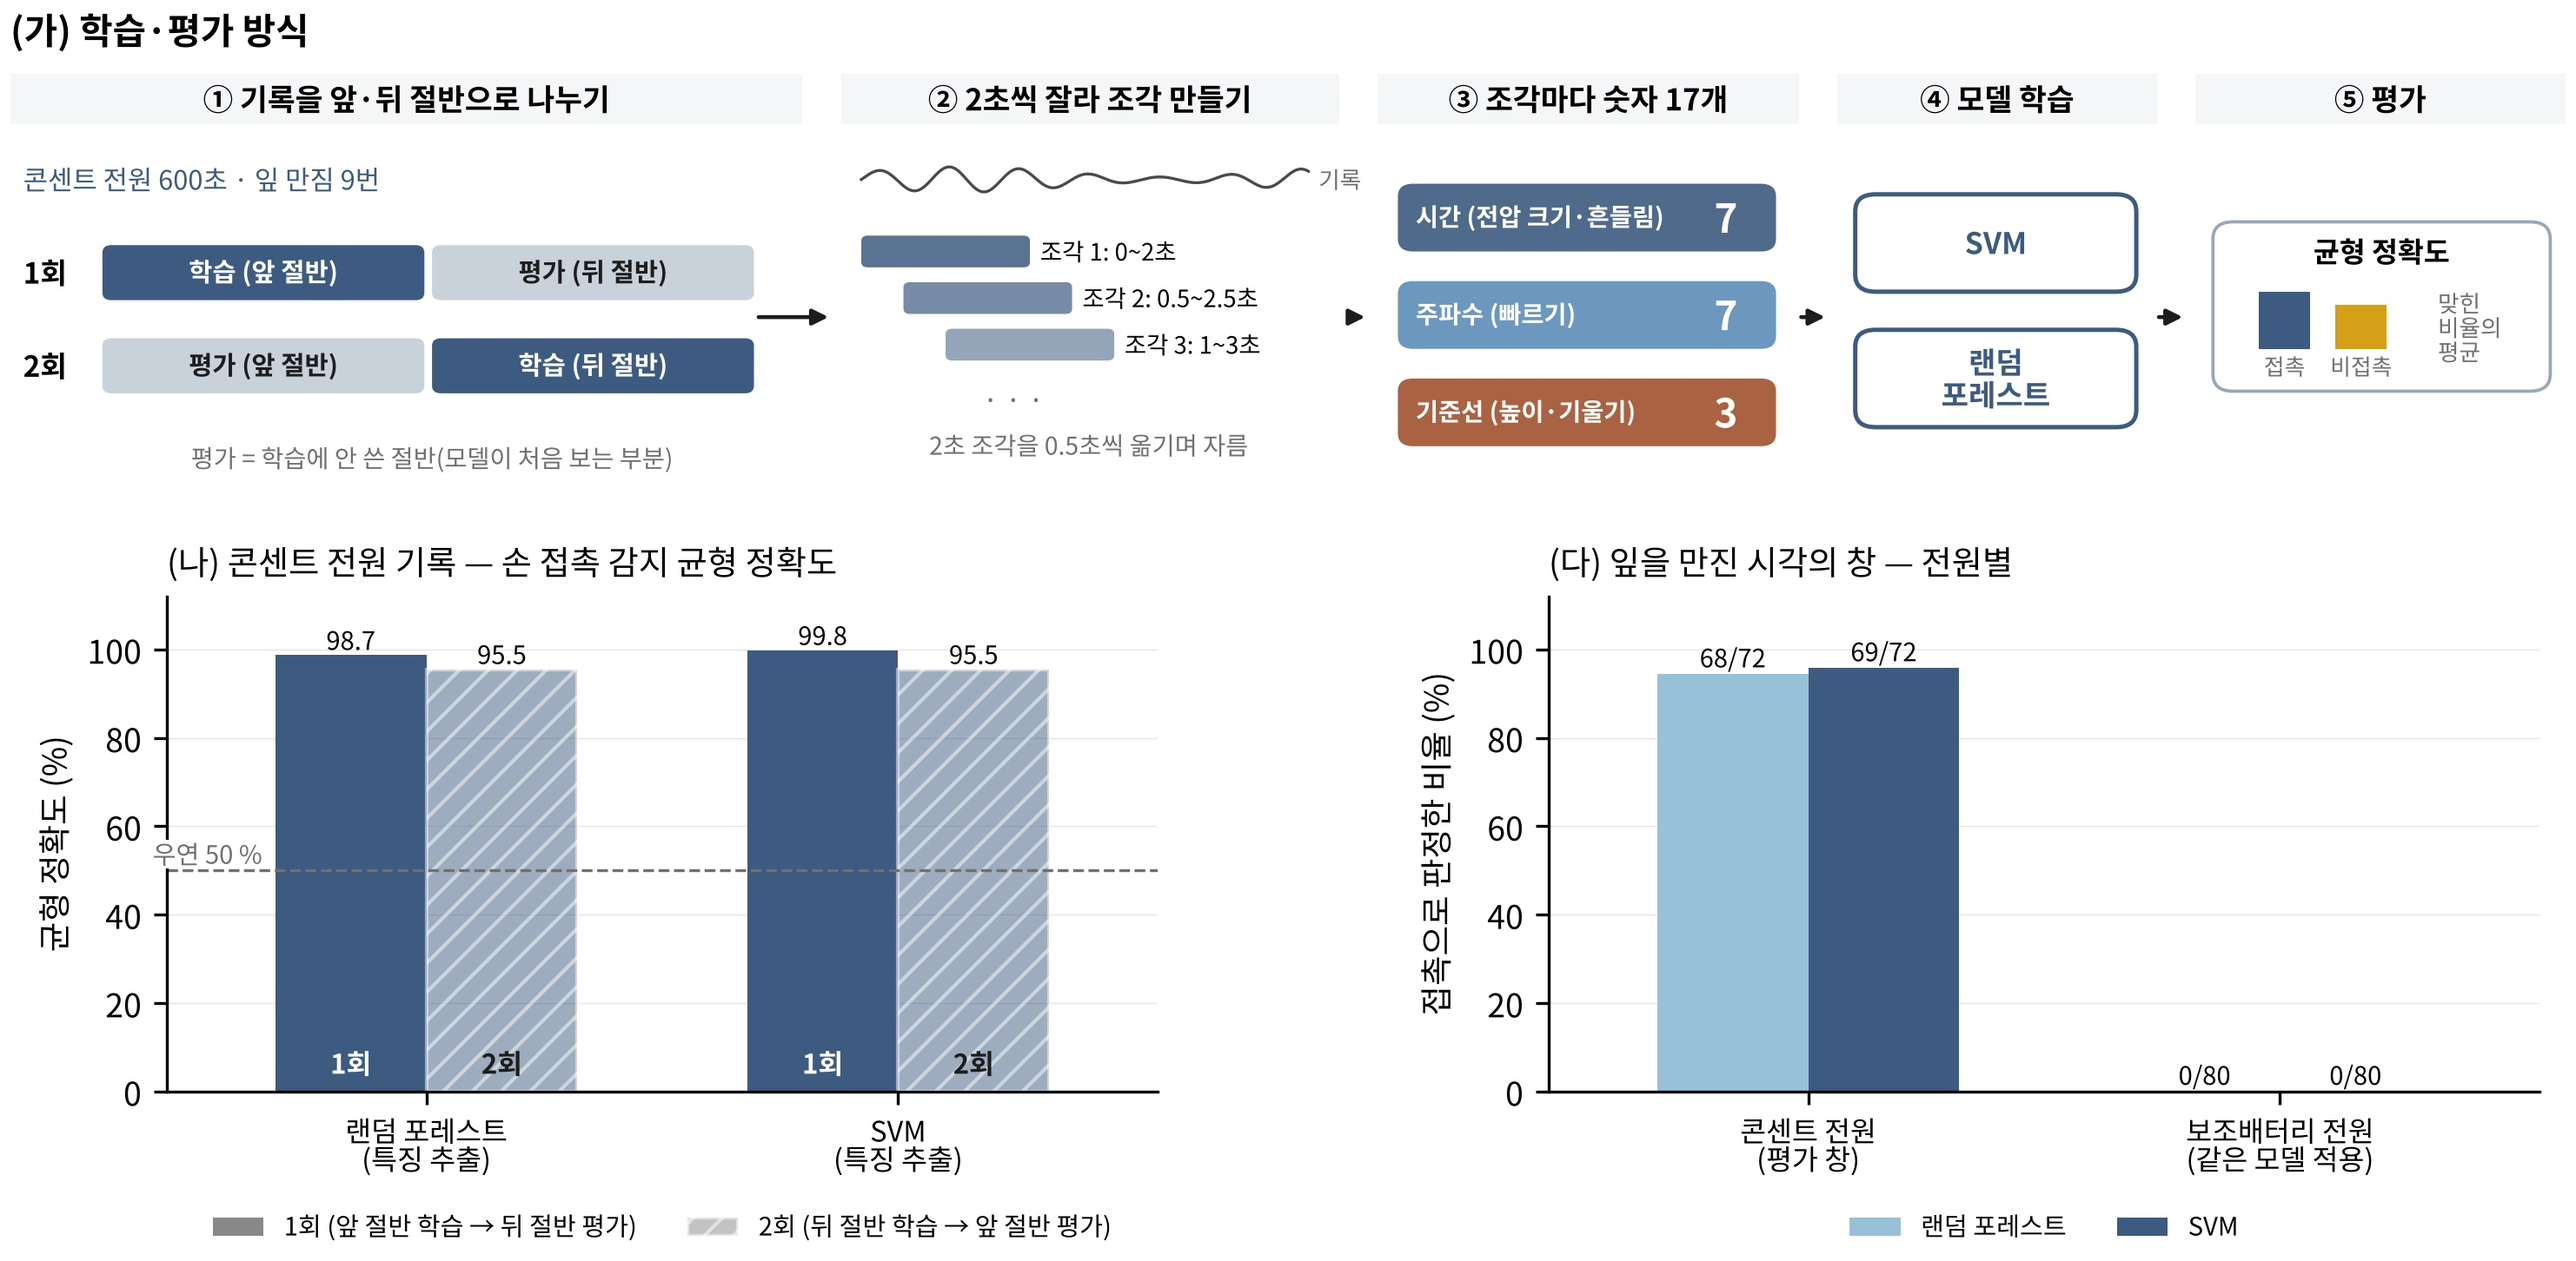
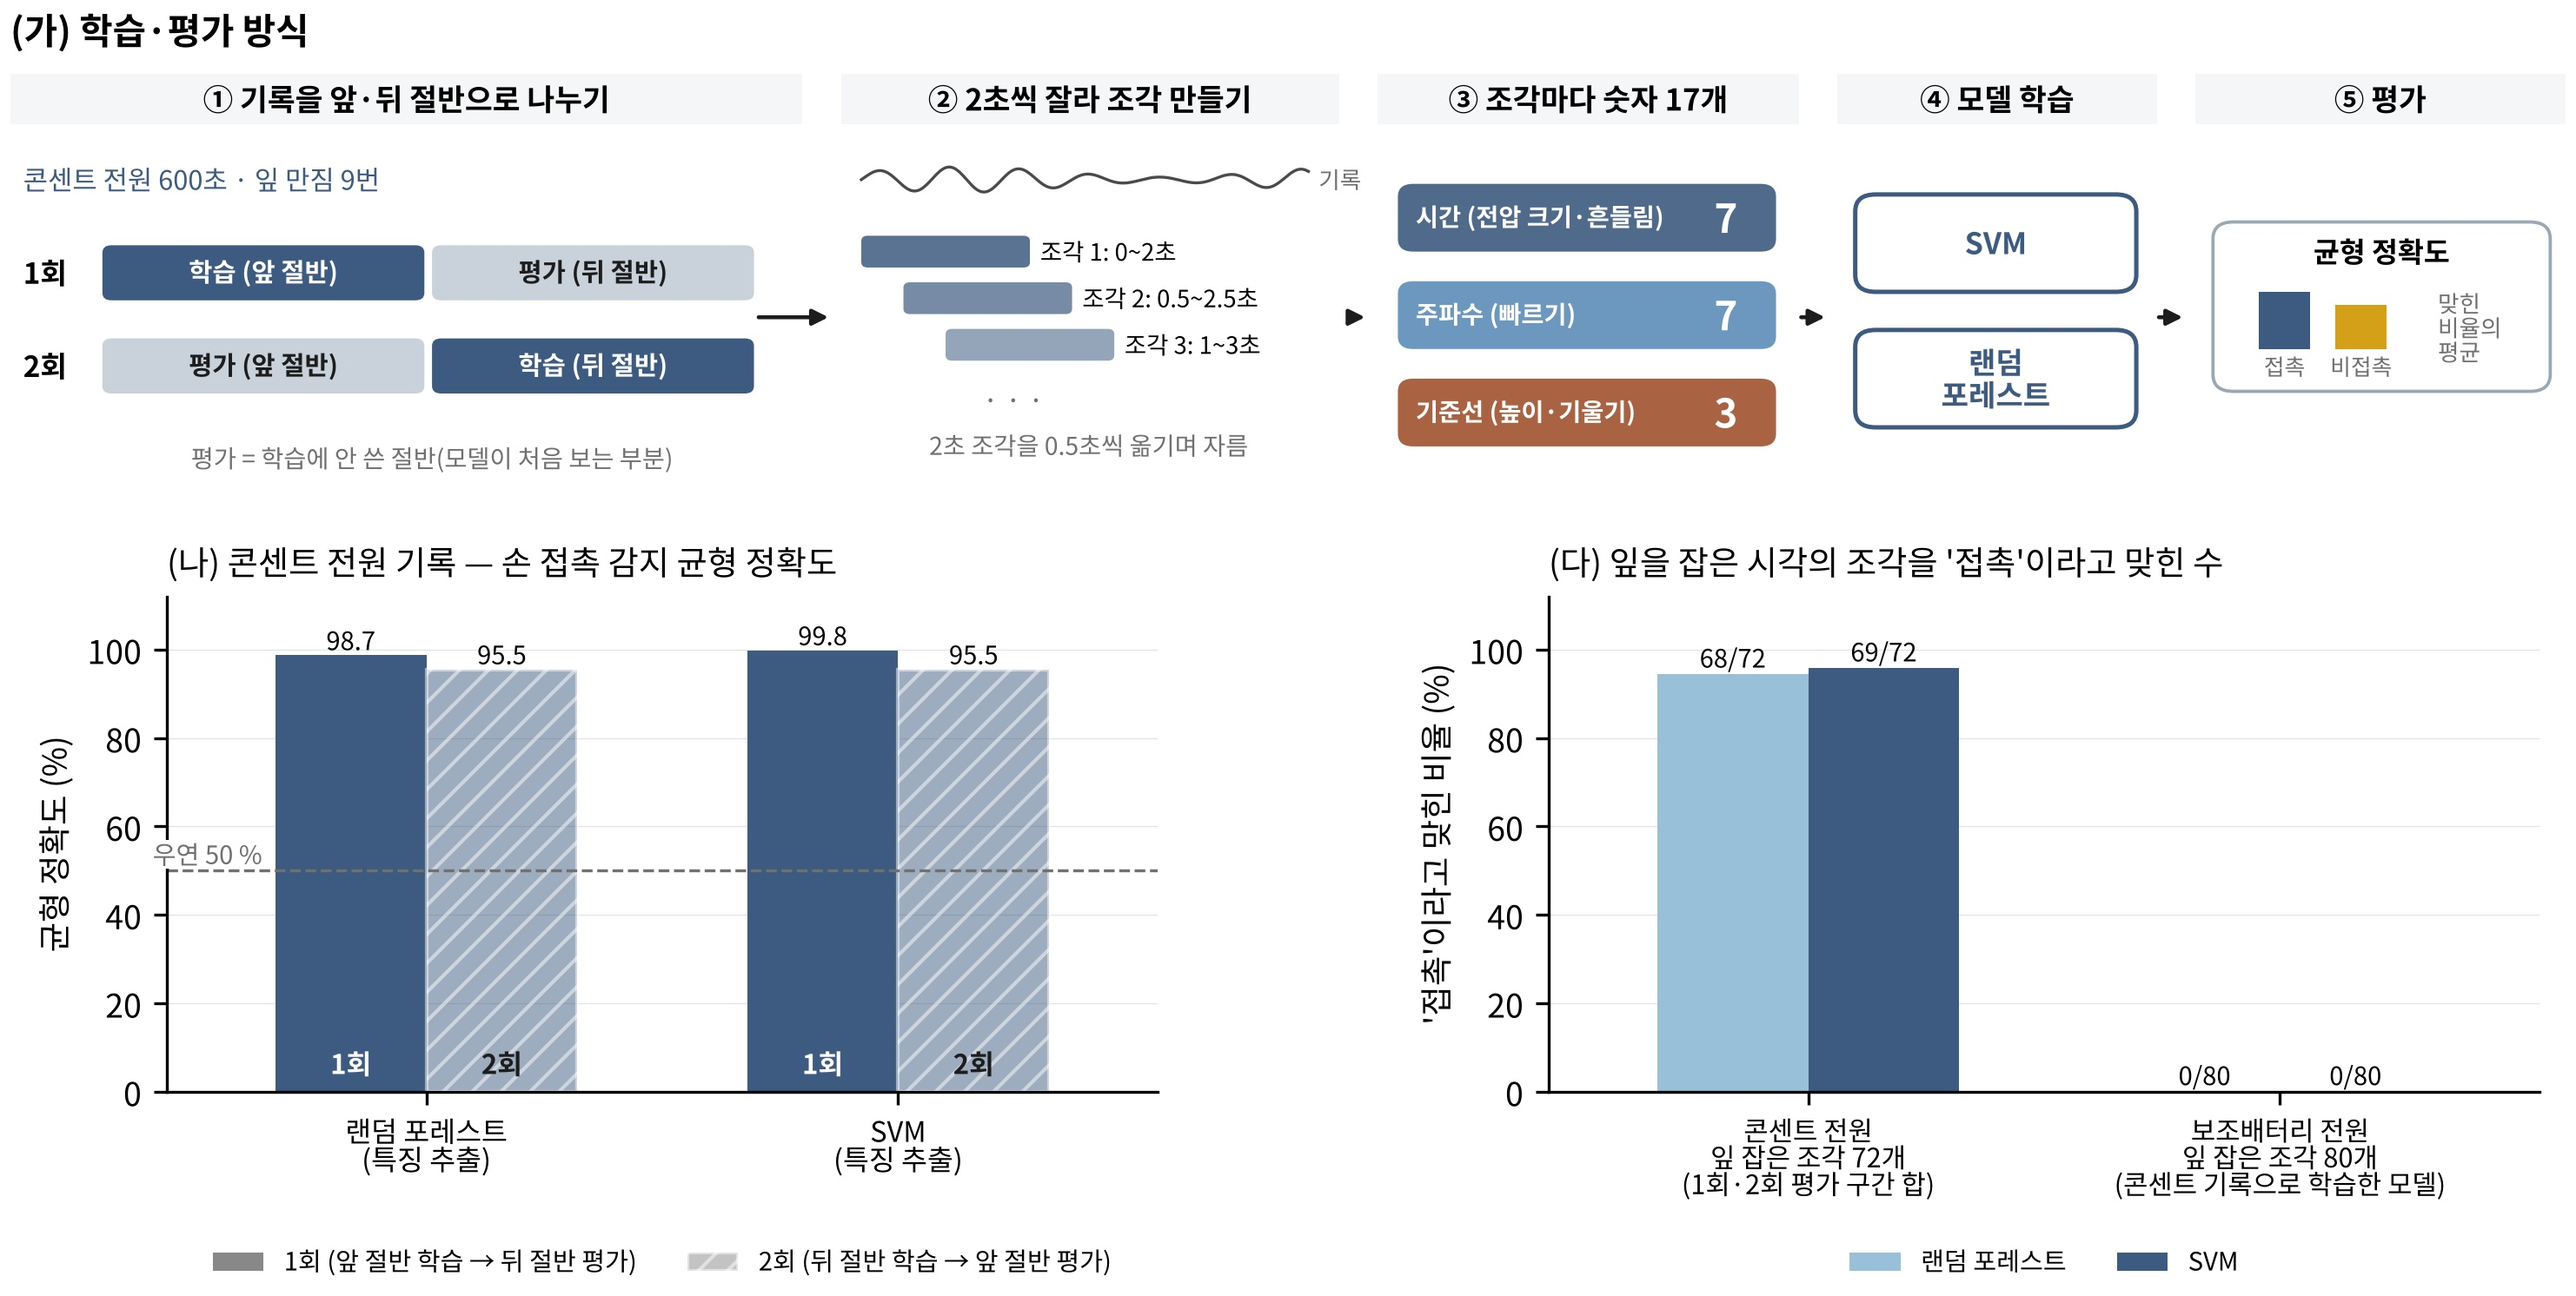
그림6 (다): 무엇을 셌는지 표시(잎 잡은 조각 72개·80개 중 '접촉'이라고 맞힌 수)
Claude-Session: https://claude.ai/code/session_01JhQkgfdzNkTpKPSBfVdw6o

diff --git a/report/stim/fig_ml_eval.py b/report/stim/fig_ml_eval.py
@@ -89,20 +89,20 @@ b.set_xticks(xs); b.set_xticklabels(labs, fontsize=7.8); b.set_ylim(0, 112); b.s
 b.set_title("(나) 콘센트 전원 기록 — 손 접촉 감지 균형 정확도", loc="left", fontsize=9.2)
 from matplotlib.patches import Patch
 b.legend(handles=[Patch(fc="#888888", label="1회 (앞 절반 학습 → 뒤 절반 평가)"), Patch(fc="#888888", alpha=0.5, hatch="///", ec="white", label="2회 (뒤 절반 학습 → 앞 절반 평가)")],
-         fontsize=7, loc="upper center", bbox_to_anchor=(0.5, -0.2), ncol=2, frameon=False)
+         fontsize=7, loc="upper center", bbox_to_anchor=(0.5, -0.27), ncol=2, frameon=False)
 # (다) 전원별: 잎 만진 창을 접촉으로 판정한 비율(콘센트 = 평가 두 방향 합, 배터리 = 콘센트 전체로 학습한 모델 적용)
 c = fig.add_axes([0.60, 0.16, 0.38, 0.38])
-grp = ["콘센트 전원\n(평가 창)", "보조배터리 전원\n(같은 모델 적용)"]
+grp = ["콘센트 전원\n잎 잡은 조각 72개\n(1회·2회 평가 구간 합)", "보조배터리 전원\n잎 잡은 조각 80개\n(콘센트 기록으로 학습한 모델)"]
 rfv = [68 / 72, 0 / 80]; svv = [69 / 72, 0 / 80]; lab_rf = ["68/72", "0/80"]; lab_sv = ["69/72", "0/80"]
 xs2 = np.arange(2); w2 = 0.32
 q1 = c.bar(xs2 - w2 / 2, [100 * v for v in rfv], w2, color=M2, label="랜덤 포레스트")
 q2 = c.bar(xs2 + w2 / 2, [100 * v for v in svv], w2, color=M1, label="SVM")
 for r, t in zip(list(q1) + list(q2), lab_rf + lab_sv):
     c.text(r.get_x() + r.get_width() / 2, r.get_height() + 1.5, t, ha="center", fontsize=7)
-c.set_xticks(xs2); c.set_xticklabels(grp, fontsize=7.8); c.set_ylim(0, 112); c.set_xlim(-0.55, 1.55)
-c.set_ylabel("접촉으로 판정한 비율 (%)")
-c.set_title("(다) 잎을 만진 시각의 창 — 전원별", loc="left", fontsize=9.2)
-c.legend(fontsize=7, loc="upper center", bbox_to_anchor=(0.5, -0.2), ncol=2, frameon=False)
+c.set_xticks(xs2); c.set_xticklabels(grp, fontsize=7.4); c.set_ylim(0, 112); c.set_xlim(-0.55, 1.55)
+c.set_ylabel("'접촉'이라고 맞힌 비율 (%)")
+c.set_title("(다) 잎을 잡은 시각의 조각을 '접촉'이라고 맞힌 수", loc="left", fontsize=9.2)
+c.legend(fontsize=7, loc="upper center", bbox_to_anchor=(0.5, -0.27), ncol=2, frameon=False)
 for x_ in (b, c):
     x_.grid(axis="y", lw=0.3, color="#e3e3e3"); x_.set_axisbelow(True)
     for s in ("top", "right"):
